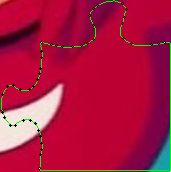
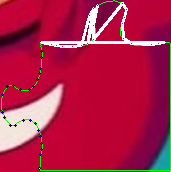
classification

Changed region(s): [[0.2339, 0.0, 0.9649, 0.2907]]

diff --git a/findcorner.py b/findcorner.py
@@ -50,67 +50,101 @@ def findangle(datas, w, h):
 
 def workimg(path):
     print(path)
+    #récupération des images
     img =  cv2.imread("img/"+path)
     imgRGB = cv2.imread("img/"+path,cv2.IMREAD_UNCHANGED)
 
     channels = cv2.split(imgRGB)
-    imgray = cv2.cvtColor(imgRGB, cv2.COLOR_BGR2GRAY)
     if imgRGB is None:
         print("erreur ouverture fichier")
     ret, gray = cv2.threshold(channels[3], 127, 255, 0)
-
+    #recherche des contours
     _, contours, _ = cv2.findContours(gray, cv2.RETR_TREE, cv2.CHAIN_APPROX_SIMPLE)
     cv2.drawContours(img, contours, -1, (0,0,0), 1)
 
-    # find Harris corners
+    #recherche des coins par la méthode de harris 
+    #https://docs.opencv.org/3.0-beta/doc/py_tutorials/py_feature2d/py_features_harris/py_features_harris.html
     gray = np.float32(gray)
     dst = cv2.cornerHarris(gray,2,3,0.04)
     dst = cv2.dilate(dst,None)
     factor=0.02
+    #recherche du facteur le plus optimisé
     while True : 
         try:
             ret, dst = cv2.threshold(dst,factor*dst.max(),255,0)
             dst = np.uint8(dst)
 
-            # find centroids
+            #Trouver les centroids
             ret, labels, stats, centroids = cv2.connectedComponentsWithStats(dst)
 
-            # define the criteria to stop and refine the corners
+            #Definition des critères et recherche des coins
             criteria = (cv2.TERM_CRITERIA_EPS + cv2.TERM_CRITERIA_MAX_ITER, 100, 0.001)
             corners = cv2.cornerSubPix(gray,np.float32(centroids),(5,5),(-1,-1),criteria)
 
-            # Now draw them
-            res = np.hstack((centroids,corners))
-            res = np.int0(res)
-            img[res[:,1],res[:,0]]=[0,0,255]
-            img[res[:,3],res[:,2]] = [0,255,0]
             break
         except:   
             factor = factor + 0.02
+    #séléction des coins importants
     cornersint = np.int0(centroids)
     height, width = img.shape[:2]
     angles=findangle(cornersint, width, height)
     posx, posy = zip(*angles)
     
-    #side separation
+    #séparation des cotés
     sides=[]
     currentside=0
     sides.append([])
-    #make a list with angles
+    #tableau -> liste
     for x in range(0,contours[0].size // 2):
         if(isAngle(contours[0][x][0][0],contours[0][x][0][1],angles)):
-            sides[currentside].append(contours[0][x][0])
+            sides[currentside].append([contours[0][x][0][0],contours[0][x][0][1]])
             currentside = currentside +1
             sides.append([])
         else:
-            sides[currentside].append(contours[0][x][0])
+            sides[currentside].append([contours[0][x][0][0],contours[0][x][0][1]])
+    #on remet le premier et le dernier bout ensemble
+    if len(sides)>1 :
+        for i in sides[0]:
+            sides[len(sides)-1].append(i)
+        sides[0]=sides[len(sides)-1]
+        sides.pop()
 
+    #création d'une structure de données adapté à la méthode drawcontours
     for l in range(0,len(sides)):
-        for s in sides[l]:
-            img[s[1],s[0]]=sideColor[l]
-    cv2.imwrite("im2/"+path,img)
+        ctr1 = np.array(sides[l]).reshape((-1,1,2)).astype(np.int32)
+        cv2.drawContours(img,[ctr1],0,sideColor[l],2)
+    
+    #définition du type de pièces
+    numberofBorder=0
+    if len(sides)>1 :
+        for side in sides:
+            if len(side)<10:
+                numberofBorder = numberofBorder + 1
+    else:
+        numberofBorder=-1
+
+    #écriture des images 
+    if numberofBorder==1:
+        cv2.imwrite("result/border/"+path,img)
+    elif numberofBorder>1:
+        cv2.imwrite("result/corner/"+path,img)
+    elif numberofBorder == -1:
+        cv2.imwrite("result/undefined/"+path,img)
+    else:
+        cv2.imwrite("result/inner/"+path,img)
 
 def main():
+    #création des dossiers si non existants
+    if not os.path.exists("result/inner/"):
+        os.makedirs("result/inner/")
+    if not os.path.exists("result/border/"):
+        os.makedirs("result/border/")
+    if not os.path.exists("result/undefined/"):
+        os.makedirs("result/undefined/")
+    if not os.path.exists("result/corner/"):
+        os.makedirs("result/corner/")
+        
+    #recuperation et traitement de chaque image du dossier img
     listing = os.listdir("img")
     for list in listing:
         workimg(list)
